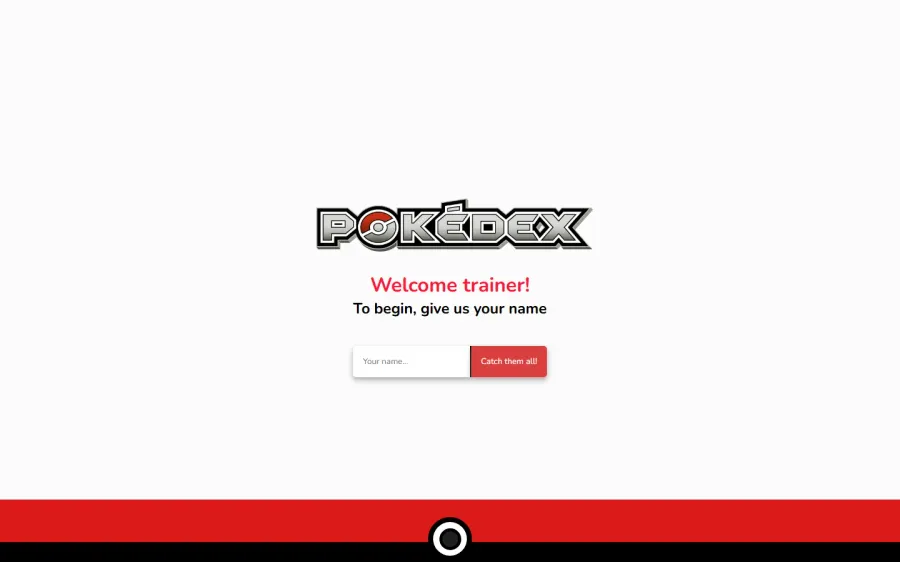
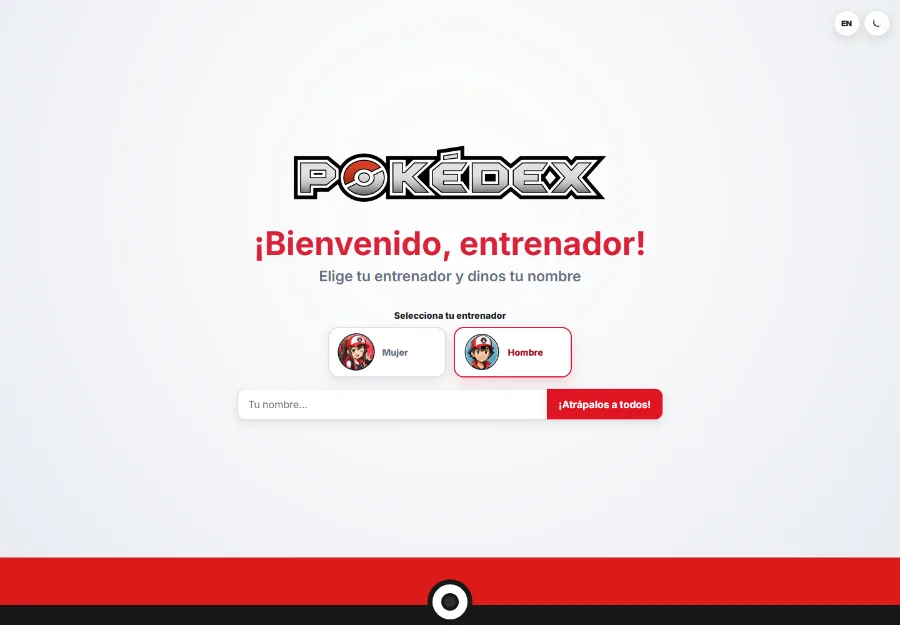
Actualización de capturas de proyecto

diff --git a/index.html b/index.html
@@ -253,15 +253,15 @@
                 <div class="projects-grid">
                     <article class="project-card featured-project reveal">
                         <div class="project-preview project-preview-image">
-                            <img src="images/pokedex-main.webp" srcset="images/pokedex-main-900.webp 900w, images/pokedex-main.webp 1440w" sizes="(max-width: 1020px) 100vw, 800px" alt="Vista principal de Pokédex App con buscador, filtro por tipo y tarjetas de Pokémon" loading="lazy" width="1440" height="900">
+                            <img src="images/pokedex-main.webp" srcset="images/pokedex-main-900.webp 900w, images/pokedex-main.webp 1440w" sizes="(max-width: 1020px) 100vw, 800px" alt="Vista de Pokédex App con buscador, filtros, favoritos y tarjetas con estadísticas de Pokémon" loading="lazy" width="1440" height="1000">
                             <span class="preview-badge">Proyecto destacado</span>
                             <span class="project-number">01</span>
                         </div>
                         <div class="project-content">
                             <div class="project-topline"><span>Aplicación web</span><span class="project-status published">Publicado</span></div>
                             <h3>Pokédex App</h3>
-                            <p>Aplicación interactiva que permite ingresar como entrenador, buscar Pokémon por nombre, filtrar por tipo y navegar entre resultados paginados consumidos desde PokeAPI.</p>
-                            <ul class="tags"><li>React</li><li>Redux Toolkit</li><li>Axios</li><li>PokeAPI</li><li>Vite</li></ul>
+                            <p>Explora Pokémon desde un onboarding personalizado, combina búsqueda, filtros y favoritos, y consulta estadísticas y detalles consumidos desde PokeAPI.</p>
+                            <ul class="tags"><li>React</li><li>Redux Toolkit</li><li>React Router</li><li>PokeAPI</li><li>Playwright</li></ul>
                             <div class="project-actions">
                                 <a class="project-link primary" href="https://pokedex-app-mu-livid.vercel.app/" target="_blank" rel="noreferrer">Ver demo <span aria-hidden="true">↗</span></a>
                                 <a class="project-link" href="https://github.com/DavidDevXPe/pokedex_app" target="_blank" rel="noreferrer">Código <span aria-hidden="true">↗</span></a>
@@ -272,15 +272,15 @@
 
                     <article class="project-card featured-project featured-project-reverse reveal">
                         <div class="project-preview project-preview-image">
-                            <img src="images/rick-and-morty-main.webp" srcset="images/rick-and-morty-main-900.webp 900w, images/rick-and-morty-main.webp 1440w" sizes="(max-width: 1020px) 100vw, 800px" alt="Vista principal de Rick and Morty App con banner, buscador, información de Earth C-137 y tarjetas de personajes" loading="lazy" width="1440" height="1000">
-                            <span class="preview-badge">Explorador de ubicaciones</span>
+                            <img src="images/rick-and-morty-main.webp" srcset="images/rick-and-morty-main-900.webp 900w, images/rick-and-morty-main.webp 1440w" sizes="(max-width: 1020px) 100vw, 800px" alt="Vista de Rick and Morty App con episodio destacado, filtros y tarjetas de personajes" loading="lazy" width="1440" height="1000">
+                            <span class="preview-badge">Explorador multiversal</span>
                             <span class="project-number">02</span>
                         </div>
                         <div class="project-content">
                             <div class="project-topline"><span>Aplicación web</span><span class="project-status published">Publicado</span></div>
                             <h3>Rick and Morty App</h3>
-                            <p>Explora ubicaciones del universo de la serie y descubre sus residentes, estado, especie, origen y participación en episodios mediante datos de la Rick and Morty API.</p>
-                            <ul class="tags"><li>React</li><li>Axios</li><li>Custom Hook</li><li>API REST</li><li>Vite</li></ul>
+                            <p>Recorre personajes, episodios y ubicaciones del multiverso desde una experiencia temática con filtros, favoritos y navegación personalizada.</p>
+                            <ul class="tags"><li>React</li><li>Fetch API</li><li>Custom Hooks</li><li>Rick and Morty API</li><li>Vitest</li></ul>
                             <div class="project-actions">
                                 <a class="project-link primary" href="https://rick-and-morty-app-phi-green.vercel.app/" target="_blank" rel="noreferrer">Ver demo <span aria-hidden="true">↗</span></a>
                                 <a class="project-link" href="https://github.com/DavidDevXPe/Rick-and-Morty---App" target="_blank" rel="noreferrer">Código <span aria-hidden="true">↗</span></a>
@@ -291,15 +291,15 @@
 
                     <article class="project-card featured-project reveal">
                         <div class="project-preview project-preview-image">
-                            <img src="images/weather-app-main.webp" srcset="images/weather-app-main-900.webp 900w, images/weather-app-main.webp 1440w" sizes="(max-width: 1020px) 100vw, 800px" alt="Vista principal de Weather App mostrando el clima de Rímac, temperatura y datos meteorológicos" loading="lazy" width="1440" height="1000">
-                            <span class="preview-badge">Clima por geolocalización</span>
+                            <img src="images/weather-app-main.webp" srcset="images/weather-app-main-900.webp 900w, images/weather-app-main.webp 1440w" sizes="(max-width: 1020px) 100vw, 800px" alt="Vista de resultados de ATMOS con temperatura y métricas meteorológicas de Lima" loading="lazy" width="1440" height="1000">
+                            <span class="preview-badge">Búsqueda y geolocalización</span>
                             <span class="project-number">03</span>
                         </div>
                         <div class="project-content">
                             <div class="project-topline"><span>Aplicación web</span><span class="project-status published">Publicado</span></div>
-                            <h3>Weather App | App del Clima</h3>
-                            <p>Consulta el clima en tiempo real a partir de la ubicación del usuario y muestra temperatura, viento, nubosidad, presión y humedad, con conversión entre °C y °F.</p>
-                            <ul class="tags"><li>React</li><li>Axios</li><li>Geolocation API</li><li>OpenWeatherMap</li><li>Vite</li></ul>
+                            <h3>ATMOS | App del Clima</h3>
+                            <p>Consulta condiciones por ciudad o ubicación actual y visualiza temperatura, viento, nubosidad, presión y humedad mediante una API intermedia segura.</p>
+                            <ul class="tags"><li>React</li><li>Express</li><li>Geolocation API</li><li>OpenWeather</li><li>Vercel</li></ul>
                             <div class="project-actions">
                                 <a class="project-link primary" href="https://weather-clima.vercel.app/" target="_blank" rel="noreferrer">Ver demo <span aria-hidden="true">↗</span></a>
                                 <a class="project-link" href="https://github.com/DavidDevXPe/App-Clima" target="_blank" rel="noreferrer">Código <span aria-hidden="true">↗</span></a>
@@ -327,13 +327,13 @@
 
                     <div class="dialog-gallery pokedex-gallery">
                         <figure class="dialog-main-shot">
-                            <img src="images/pokedex-main.webp" srcset="images/pokedex-main-900.webp 900w, images/pokedex-main.webp 1440w" sizes="(max-width: 760px) 100vw, 700px" alt="Vista principal de Pokédex App con las tarjetas de Pokémon" loading="lazy" width="1440" height="900">
-                            <figcaption>Vista principal: búsqueda, filtro y resultados.</figcaption>
+                            <img src="images/pokedex-main.webp" srcset="images/pokedex-main-900.webp 900w, images/pokedex-main.webp 1440w" sizes="(max-width: 760px) 100vw, 700px" alt="Vista de exploración de Pokédex App con búsqueda, filtros y tarjetas de Pokémon" loading="lazy" width="1440" height="1000">
+                            <figcaption>Exploración: búsqueda, filtros, favoritos y estadísticas.</figcaption>
                         </figure>
                         <div class="dialog-side-column">
                             <figure>
-                                <img src="images/pokedex-entry.webp" srcset="images/pokedex-entry-900.webp 900w, images/pokedex-entry.webp 1440w" sizes="(max-width: 760px) 100vw, 350px" alt="Pantalla inicial de Pokédex App para ingresar el nombre del entrenador" loading="lazy" width="1440" height="900">
-                                <figcaption>Ingreso del entrenador.</figcaption>
+                                <img src="images/pokedex-entry.webp" srcset="images/pokedex-entry-900.webp 900w, images/pokedex-entry.webp 1440w" sizes="(max-width: 760px) 100vw, 350px" alt="Pantalla de bienvenida de Pokédex App con selección de entrenador e ingreso de nombre" loading="lazy" width="1440" height="1000">
+                                <figcaption>Onboarding: selección de entrenador e ingreso de nombre.</figcaption>
                             </figure>
 
                             <article class="pokemon-mini-card" aria-label="Estadísticas de Bulbasaur">
@@ -372,7 +372,7 @@
                         <section class="case-study-card">
                             <span class="case-study-number">02 / SOLUCIÓN</span>
                             <h3>Un flujo de consulta completo</h3>
-                            <p>La aplicación combina ingreso como entrenador, búsqueda por nombre, filtro por tipo y paginación. Cada tarjeta presenta el tipo y las seis estadísticas principales del Pokémon.</p>
+                            <p>El flujo comienza con la elección del entrenador y el ingreso del nombre. Después integra búsqueda, filtro por tipo, favoritos y paginación; cada tarjeta presenta el tipo y las seis estadísticas principales.</p>
                         </section>
                         <section class="case-study-card">
                             <span class="case-study-number">03 / IMPLEMENTACIÓN</span>
@@ -382,14 +382,14 @@
                         <section class="case-study-card">
                             <span class="case-study-number">04 / DESAFÍO</span>
                             <h3>Coordinar datos asíncronos y controles</h3>
-                            <p>El reto fue mantener coordinadas la búsqueda, el filtrado y la paginación, mientras transformaba la respuesta de la API en tarjetas consistentes y fáciles de consultar.</p>
+                            <p>El reto fue coordinar búsqueda, filtros, favoritos y paginación con la URL, mientras la caché y la cancelación de peticiones evitaban respuestas obsoletas.</p>
                         </section>
                     </div>
 
                     <div class="case-study-result">
                         <div>
                             <span class="dialog-label">Resultado</span>
-                            <p>Aplicación frontend publicada en Vercel, con una demo funcional y el código fuente disponible públicamente en GitHub.</p>
+                            <p>Experiencia responsive y accesible publicada en Vercel, con onboarding, exploración detallada y una suite automatizada para validar los flujos principales.</p>
                         </div>
                         <span class="case-result-status"><i aria-hidden="true"></i> Demo y código disponibles</span>
                     </div>
@@ -400,7 +400,7 @@
                             <div class="stack-group"><span>Interfaz</span><ul class="tags"><li>React</li><li>JavaScript</li><li>Vite</li><li>CSS</li></ul></div>
                             <div class="stack-group"><span>Estado y navegación</span><ul class="tags"><li>Redux Toolkit</li><li>React Redux</li><li>React Router</li></ul></div>
                             <div class="stack-group"><span>Integración</span><ul class="tags"><li>Axios</li><li>PokeAPI</li></ul></div>
-                            <div class="stack-group"><span>Despliegue</span><ul class="tags"><li>Vercel</li></ul></div>
+                            <div class="stack-group"><span>Calidad y despliegue</span><ul class="tags"><li>Vitest</li><li>Playwright</li><li>axe-core</li><li>Vercel</li></ul></div>
                         </div>
                     </div>
                 </div>
@@ -421,10 +421,14 @@
                         </div>
                     </div>
 
-                    <div class="dialog-gallery single-shot">
+                    <div class="dialog-gallery project-gallery-pair">
                         <figure>
-                            <img src="images/rick-and-morty-main.webp" srcset="images/rick-and-morty-main-900.webp 900w, images/rick-and-morty-main.webp 1440w" sizes="(max-width: 760px) 100vw, 700px" alt="Vista principal de Rick and Morty App mostrando Earth C-137 y sus residentes" loading="lazy" width="1440" height="1000">
-                            <figcaption>Vista principal: búsqueda de ubicaciones, información y residentes paginados.</figcaption>
+                            <img src="images/rick-and-morty-main.webp" srcset="images/rick-and-morty-main-900.webp 900w, images/rick-and-morty-main.webp 1440w" sizes="(max-width: 760px) calc(100vw - 76px), 490px" alt="Vista de Rick and Morty App con episodio destacado, filtros y personajes" loading="lazy" width="1440" height="1000">
+                            <figcaption>Exploración: personajes, episodio destacado, filtros y favoritos.</figcaption>
+                        </figure>
+                        <figure>
+                            <img src="images/rick-and-morty-entry.webp" srcset="images/rick-and-morty-entry-900.webp 900w, images/rick-and-morty-entry.webp 1440w" sizes="(max-width: 760px) calc(100vw - 76px), 490px" alt="Pantalla de bienvenida de Rick and Morty App con selección de Rick o Morty e ingreso de nombre" loading="lazy" width="1440" height="1000">
+                            <figcaption>Onboarding: elección de personaje e ingreso de nombre.</figcaption>
                         </figure>
                     </div>
 
@@ -437,30 +441,30 @@
                     <div class="case-study-grid">
                         <section class="case-study-card">
                             <span class="case-study-number">01 / OBJETIVO</span>
-                            <h3>Relacionar ubicaciones y residentes</h3>
-                            <p>Facilitar la exploración de las ubicaciones del universo de Rick and Morty y de los personajes asociados a cada una mediante una consulta directa.</p>
+                            <h3>Unificar la exploración del multiverso</h3>
+                            <p>Crear una experiencia donde personajes, episodios y ubicaciones pudieran consultarse sin perder el contexto entre colecciones relacionadas.</p>
                         </section>
                         <section class="case-study-card">
                             <span class="case-study-number">02 / SOLUCIÓN</span>
-                            <h3>Información contextual en una sola vista</h3>
-                            <p>El usuario consulta una ubicación por identificador y obtiene su nombre, tipo, dimensión y residentes. Los personajes se presentan en tarjetas y se organizan mediante paginación.</p>
+                            <h3>Tres colecciones conectadas</h3>
+                            <p>Tras elegir a Rick o Morty, el usuario puede filtrar personajes, guardar favoritos, recorrer episodios y consultar ubicaciones con sus residentes paginados.</p>
                         </section>
                         <section class="case-study-card">
                             <span class="case-study-number">03 / IMPLEMENTACIÓN</span>
                             <h3>Lógica asíncrona reutilizable</h3>
-                            <p>Construí la interfaz con React y Axios. Encapsulé las peticiones y los estados de carga y error en un custom hook, apoyándome en useState, useEffect y useRef para controlar la interacción.</p>
+                            <p>Construí la interfaz con React y la Fetch API. Encapsulé consultas cancelables y listas paginadas en custom hooks, y persistí perfil y favoritos en localStorage.</p>
                         </section>
                         <section class="case-study-card">
                             <span class="case-study-number">04 / DESAFÍO</span>
-                            <h3>Organizar conjuntos variables de residentes</h3>
-                            <p>El reto fue coordinar el ciclo de las peticiones asíncronas, reutilizar la lógica de consulta y presentar cantidades distintas de personajes sin perder claridad en la navegación.</p>
+                            <h3>Coordinar modos, filtros y peticiones</h3>
+                            <p>El reto fue mantener consistentes la navegación entre colecciones, los filtros, los favoritos y las peticiones cancelables sin mostrar resultados obsoletos.</p>
                         </section>
                     </div>
 
                     <div class="case-study-result">
                         <div>
                             <span class="dialog-label">Resultado</span>
-                            <p>Aplicación frontend publicada en Vercel, con una demo funcional y el repositorio disponible públicamente en GitHub.</p>
+                            <p>Explorador temático publicado en Vercel, con onboarding persistente, tres áreas de consulta y estados claros de carga, error y resultados vacíos.</p>
                         </div>
                         <span class="case-result-status"><i aria-hidden="true"></i> Demo y código disponibles</span>
                     </div>
@@ -469,9 +473,9 @@
                         <span class="dialog-label">Tecnologías</span>
                         <div class="dialog-stack-groups">
                             <div class="stack-group"><span>Interfaz</span><ul class="tags"><li>React</li><li>JavaScript</li><li>Vite</li><li>CSS</li></ul></div>
-                            <div class="stack-group"><span>Lógica</span><ul class="tags"><li>Custom Hook</li><li>React Hooks</li></ul></div>
-                            <div class="stack-group"><span>Integración</span><ul class="tags"><li>Axios</li><li>Rick and Morty API</li></ul></div>
-                            <div class="stack-group"><span>Despliegue</span><ul class="tags"><li>Vercel</li></ul></div>
+                            <div class="stack-group"><span>Estado</span><ul class="tags"><li>Custom Hooks</li><li>LocalStorage</li><li>Context API</li></ul></div>
+                            <div class="stack-group"><span>Integración</span><ul class="tags"><li>Fetch API</li><li>Rick and Morty API</li></ul></div>
+                            <div class="stack-group"><span>Calidad y despliegue</span><ul class="tags"><li>Vitest</li><li>Testing Library</li><li>Vercel</li></ul></div>
                         </div>
                     </div>
                 </div>
@@ -484,7 +488,7 @@
                     <div class="dialog-heading">
                         <div>
                             <p class="section-index">CASO DE ESTUDIO 03 / PUBLICADO</p>
-                            <h2 id="weather-dialog-title">Weather App</h2>
+                            <h2 id="weather-dialog-title">ATMOS | App del Clima</h2>
                         </div>
                         <div class="dialog-actions">
                             <a class="button button-primary" href="https://weather-clima.vercel.app/" target="_blank" rel="noreferrer">Abrir demo <span aria-hidden="true">↗</span></a>
@@ -492,46 +496,50 @@
                         </div>
                     </div>
 
-                    <div class="dialog-gallery single-shot">
+                    <div class="dialog-gallery project-gallery-pair">
                         <figure>
-                            <img src="images/weather-app-main.webp" srcset="images/weather-app-main-900.webp 900w, images/weather-app-main.webp 1440w" sizes="(max-width: 760px) 100vw, 700px" alt="Vista principal de Weather App con información meteorológica de Rímac" loading="lazy" width="1440" height="1000">
-                            <figcaption>Vista principal: geolocalización, estado actual, métricas y conversión de temperatura.</figcaption>
+                            <img src="images/weather-app-main.webp" srcset="images/weather-app-main-900.webp 900w, images/weather-app-main.webp 1440w" sizes="(max-width: 760px) calc(100vw - 76px), 490px" alt="Vista de resultados de ATMOS con las condiciones meteorológicas de Lima" loading="lazy" width="1440" height="1000">
+                            <figcaption>Resultado: condiciones actuales y métricas de la ciudad consultada.</figcaption>
+                        </figure>
+                        <figure>
+                            <img src="images/weather-app-home.webp" srcset="images/weather-app-home-900.webp 900w, images/weather-app-home.webp 1440w" sizes="(max-width: 760px) calc(100vw - 76px), 490px" alt="Pantalla inicial de ATMOS con búsqueda por ciudad y acceso a la ubicación actual" loading="lazy" width="1440" height="1000">
+                            <figcaption>Inicio: búsqueda por ciudad o ubicación actual.</figcaption>
                         </figure>
                     </div>
 
-                    <div class="case-study-meta" aria-label="Resumen del proyecto Weather App">
-                        <div><span>Tipo</span><strong>Aplicación frontend</strong></div>
-                        <div><span>Fuente de datos</span><strong>OpenWeatherMap</strong></div>
-                        <div><span>Publicación</span><strong>Vercel</strong></div>
+                    <div class="case-study-meta" aria-label="Resumen del proyecto ATMOS">
+                        <div><span>Tipo</span><strong>Aplicación full-stack</strong></div>
+                        <div><span>Fuente de datos</span><strong>OpenWeather API</strong></div>
+                        <div><span>Infraestructura</span><strong>Vercel Functions</strong></div>
                     </div>
 
                     <div class="case-study-grid">
                         <section class="case-study-card">
                             <span class="case-study-number">01 / OBJETIVO</span>
-                            <h3>Convertir una ubicación en información útil</h3>
-                            <p>Transformar las coordenadas actuales del usuario en una consulta meteorológica clara, con los datos principales reunidos en una sola interfaz.</p>
+                            <h3>Hacer accesible el clima de cualquier ciudad</h3>
+                            <p>Permitir consultas por nombre o ubicación actual, reuniendo las condiciones esenciales en una experiencia clara y sin depender de un único flujo de acceso.</p>
                         </section>
                         <section class="case-study-card">
                             <span class="case-study-number">02 / SOLUCIÓN</span>
-                            <h3>Condiciones actuales y cambio de unidad</h3>
-                            <p>La aplicación muestra ciudad, país, descripción, temperatura, viento, nubosidad, presión y humedad. También permite alternar la temperatura entre Celsius y Fahrenheit.</p>
+                            <h3>Dos formas de consulta, una lectura clara</h3>
+                            <p>ATMOS combina búsqueda y geolocalización, adapta su atmósfera visual al clima y presenta temperatura, sensación térmica, viento, nubosidad, presión y humedad.</p>
                         </section>
                         <section class="case-study-card">
                             <span class="case-study-number">03 / IMPLEMENTACIÓN</span>
-                            <h3>Dos procesos asíncronos conectados</h3>
-                            <p>Utilicé la Geolocation API para obtener coordenadas, Axios para consultar OpenWeatherMap y useState y useEffect para actualizar la interfaz y controlar la unidad seleccionada.</p>
+                            <h3>Frontend y API intermedia segura</h3>
+                            <p>React gestiona la interfaz y la Geolocation API; Vercel Functions ejecuta la capa Express que valida consultas, protege la clave y normaliza la respuesta de OpenWeather.</p>
                         </section>
                         <section class="case-study-card">
                             <span class="case-study-number">04 / DESAFÍO</span>
-                            <h3>Mantener los datos y unidades coherentes</h3>
-                            <p>El reto fue encadenar la geolocalización con la consulta meteorológica y transformar correctamente la temperatura entre Kelvin, Celsius y Fahrenheit sin alterar los datos recibidos.</p>
+                            <h3>Unificar entradas, estados y seguridad</h3>
+                            <p>El reto fue integrar ciudad y coordenadas en un solo flujo, mantener coherentes carga, errores y unidades, y aplicar caché, timeout y límite de solicitudes en el servidor.</p>
                         </section>
                     </div>
 
                     <div class="case-study-result">
                         <div>
                             <span class="dialog-label">Resultado</span>
-                            <p>Aplicación frontend publicada en Vercel, con una demo funcional y el código fuente disponible públicamente en GitHub.</p>
+                            <p>Experiencia meteorológica full-stack publicada en Vercel, responsive y accesible, con la clave de OpenWeather aislada del navegador.</p>
                         </div>
                         <span class="case-result-status"><i aria-hidden="true"></i> Demo y código disponibles</span>
                     </div>
@@ -540,9 +548,9 @@
                         <span class="dialog-label">Tecnologías</span>
                         <div class="dialog-stack-groups">
                             <div class="stack-group"><span>Interfaz</span><ul class="tags"><li>React</li><li>JavaScript</li><li>Vite</li><li>CSS</li></ul></div>
-                            <div class="stack-group"><span>Navegador</span><ul class="tags"><li>Geolocation API</li><li>React Hooks</li></ul></div>
-                            <div class="stack-group"><span>Integración</span><ul class="tags"><li>Axios</li><li>OpenWeatherMap API</li></ul></div>
-                            <div class="stack-group"><span>Despliegue</span><ul class="tags"><li>Vercel</li></ul></div>
+                            <div class="stack-group"><span>Backend</span><ul class="tags"><li>Express</li><li>Vercel Functions</li><li>Helmet</li></ul></div>
+                            <div class="stack-group"><span>Datos</span><ul class="tags"><li>Geolocation API</li><li>Fetch API</li><li>OpenWeather</li></ul></div>
+                            <div class="stack-group"><span>Calidad</span><ul class="tags"><li>Vitest</li><li>Supertest</li><li>Vercel</li></ul></div>
                         </div>
                     </div>
                 </div>

diff --git a/css/styles.css b/css/styles.css
@@ -1388,6 +1388,26 @@ body.dialog-open {
     aspect-ratio: auto;
 }
 
+.dialog-gallery.project-gallery-pair {
+    grid-template-columns: repeat(2, minmax(0, 1fr));
+    align-items: stretch;
+}
+
+.project-gallery-pair figure {
+    display: flex;
+    min-width: 0;
+    flex-direction: column;
+}
+
+.project-gallery-pair img {
+    aspect-ratio: 36 / 25;
+    background: #07111f;
+}
+
+.project-gallery-pair figcaption {
+    flex: 1;
+}
+
 .case-study-meta {
     display: grid;
     grid-template-columns: repeat(3, 1fr);
@@ -2193,6 +2213,7 @@ body.dialog-open {
     }
 
     .dialog-gallery,
+    .dialog-gallery.project-gallery-pair,
     .case-study-meta,
     .case-study-grid,
     .case-study-result {

diff --git a/README.md b/README.md
@@ -39,9 +39,9 @@ El portafolio está construido sin frameworks ni dependencias en producción. Gi
 
 | Proyecto | Descripción | Demo | Código |
 | --- | --- | --- | --- |
-| Pokédex App | Búsqueda, filtros y paginación utilizando PokeAPI. | [Abrir](https://pokedex-app-mu-livid.vercel.app/) | [Repositorio](https://github.com/DavidDevXPe/pokedex_app) |
-| Rick and Morty App | Consulta de ubicaciones y residentes mediante la API de Rick and Morty. | [Abrir](https://rick-and-morty-app-phi-green.vercel.app/) | [Repositorio](https://github.com/DavidDevXPe/Rick-and-Morty---App) |
-| Weather App | Información meteorológica basada en la ubicación del usuario. | [Abrir](https://weather-clima.vercel.app/) | [Repositorio](https://github.com/DavidDevXPe/App-Clima) |
+| Pokédex App | Onboarding de entrenador, búsqueda, filtros, favoritos y detalles con PokeAPI. | [Abrir](https://pokedex-app-mu-livid.vercel.app/) | [Repositorio](https://github.com/DavidDevXPe/pokedex_app) |
+| Rick and Morty App | Exploración de personajes, episodios y ubicaciones mediante la API de Rick and Morty. | [Abrir](https://rick-and-morty-app-phi-green.vercel.app/) | [Repositorio](https://github.com/DavidDevXPe/Rick-and-Morty---App) |
+| ATMOS \| App del Clima | Clima por ciudad o geolocalización con React y una API Express segura. | [Abrir](https://weather-clima.vercel.app/) | [Repositorio](https://github.com/DavidDevXPe/App-Clima) |
 
 ## Estructura
 
